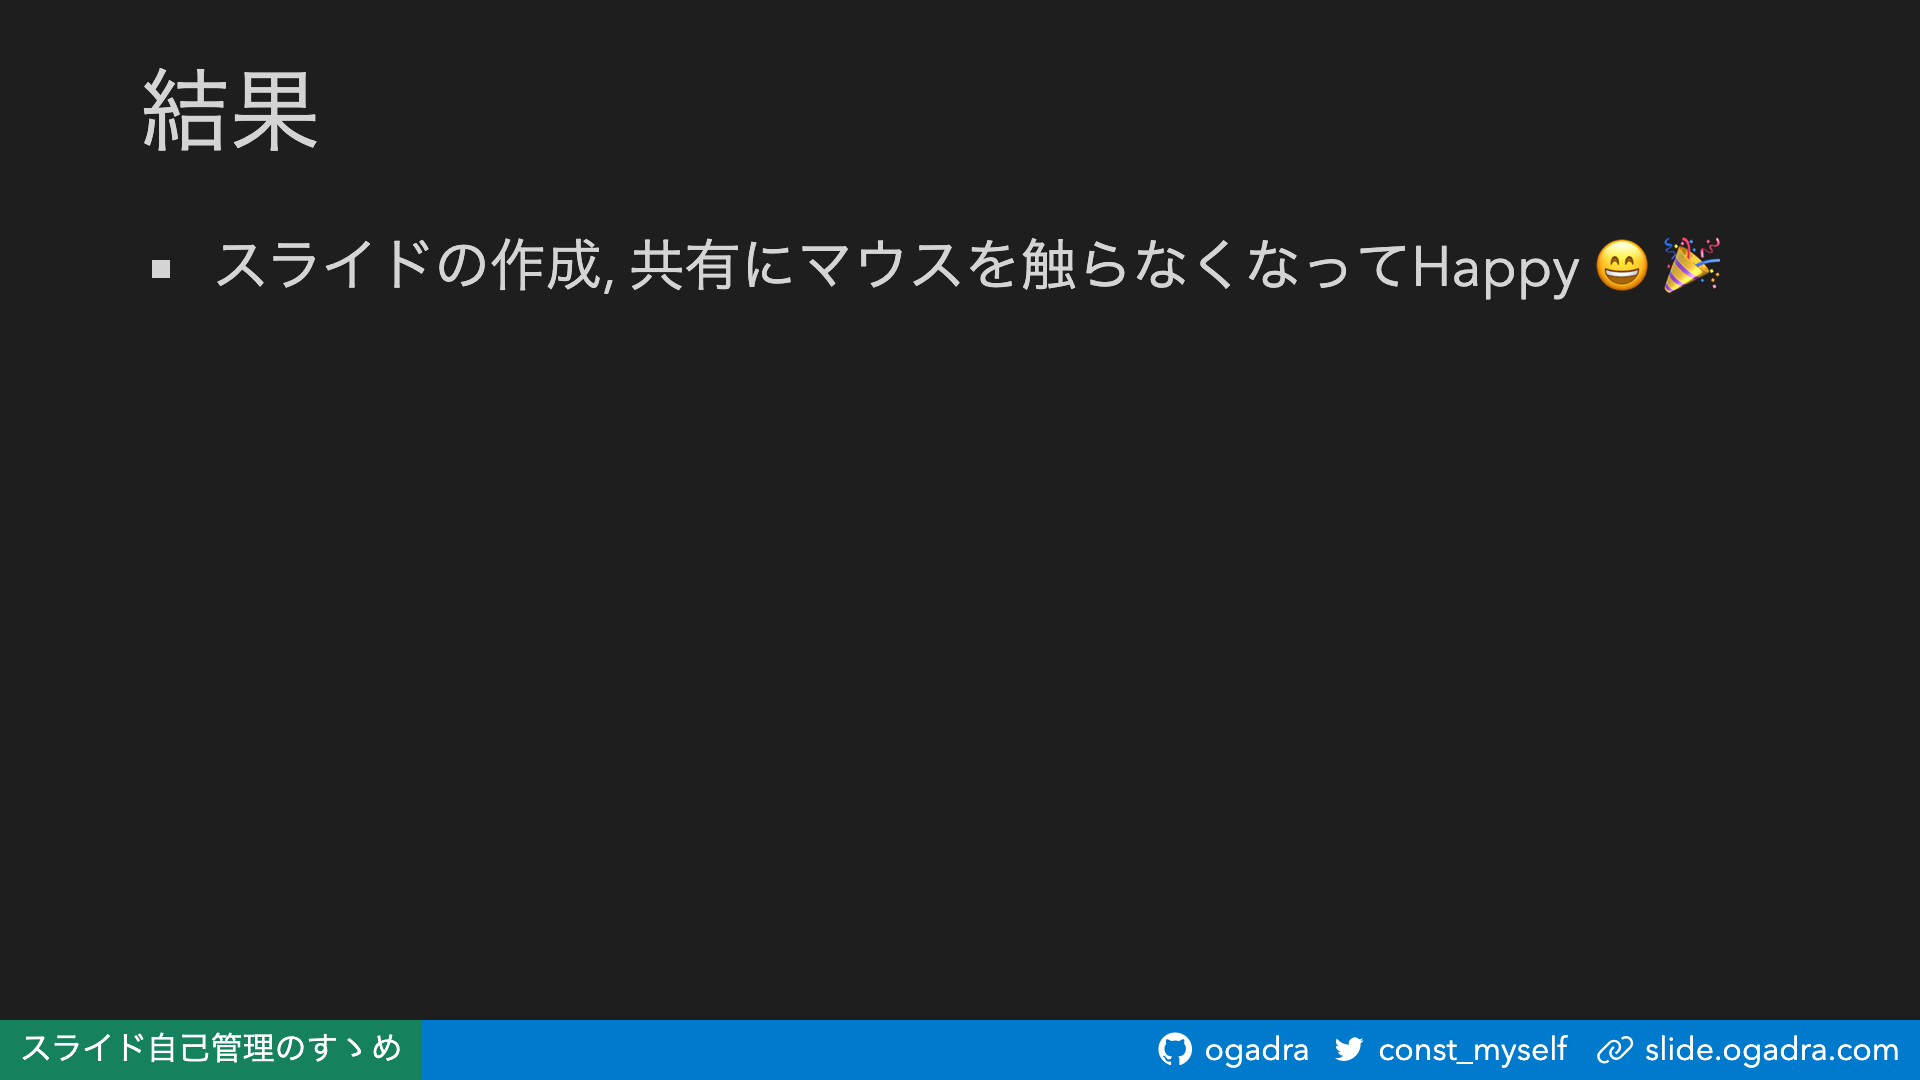
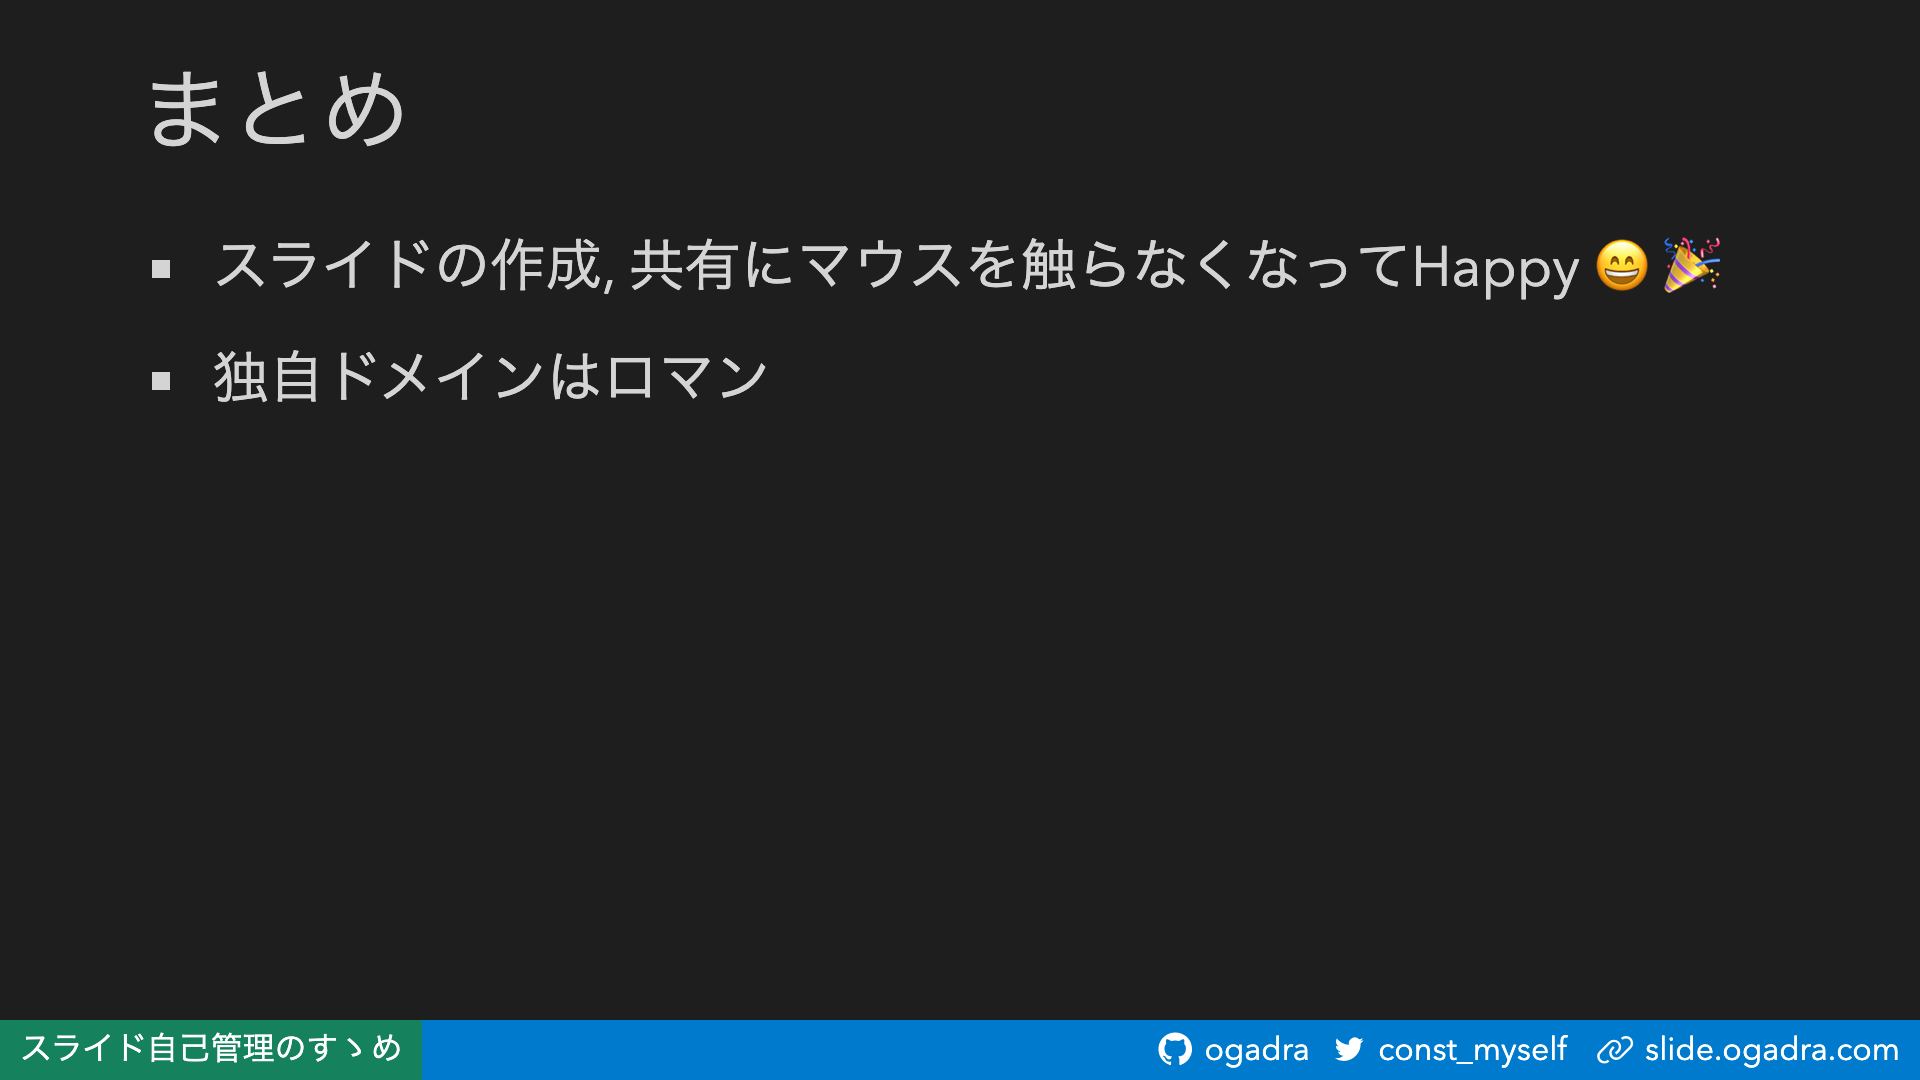
📝 Chore: add comment

Changed region(s): [[0.0625, 0.0611, 0.2188, 0.1528], [0.0625, 0.3056, 0.4062, 0.3667]]

diff --git a/slidev/self-hosting-slides/slides.md b/slidev/self-hosting-slides/slides.md
@@ -245,9 +245,10 @@ class HeadHandler {
 
 ---
 
-## 結果
+## まとめ
 
 - スライドの作成, 共有にマウスを触らなくなってHappy 😄 🎉
+- 独自ドメインはロマン
 
 ---
 
